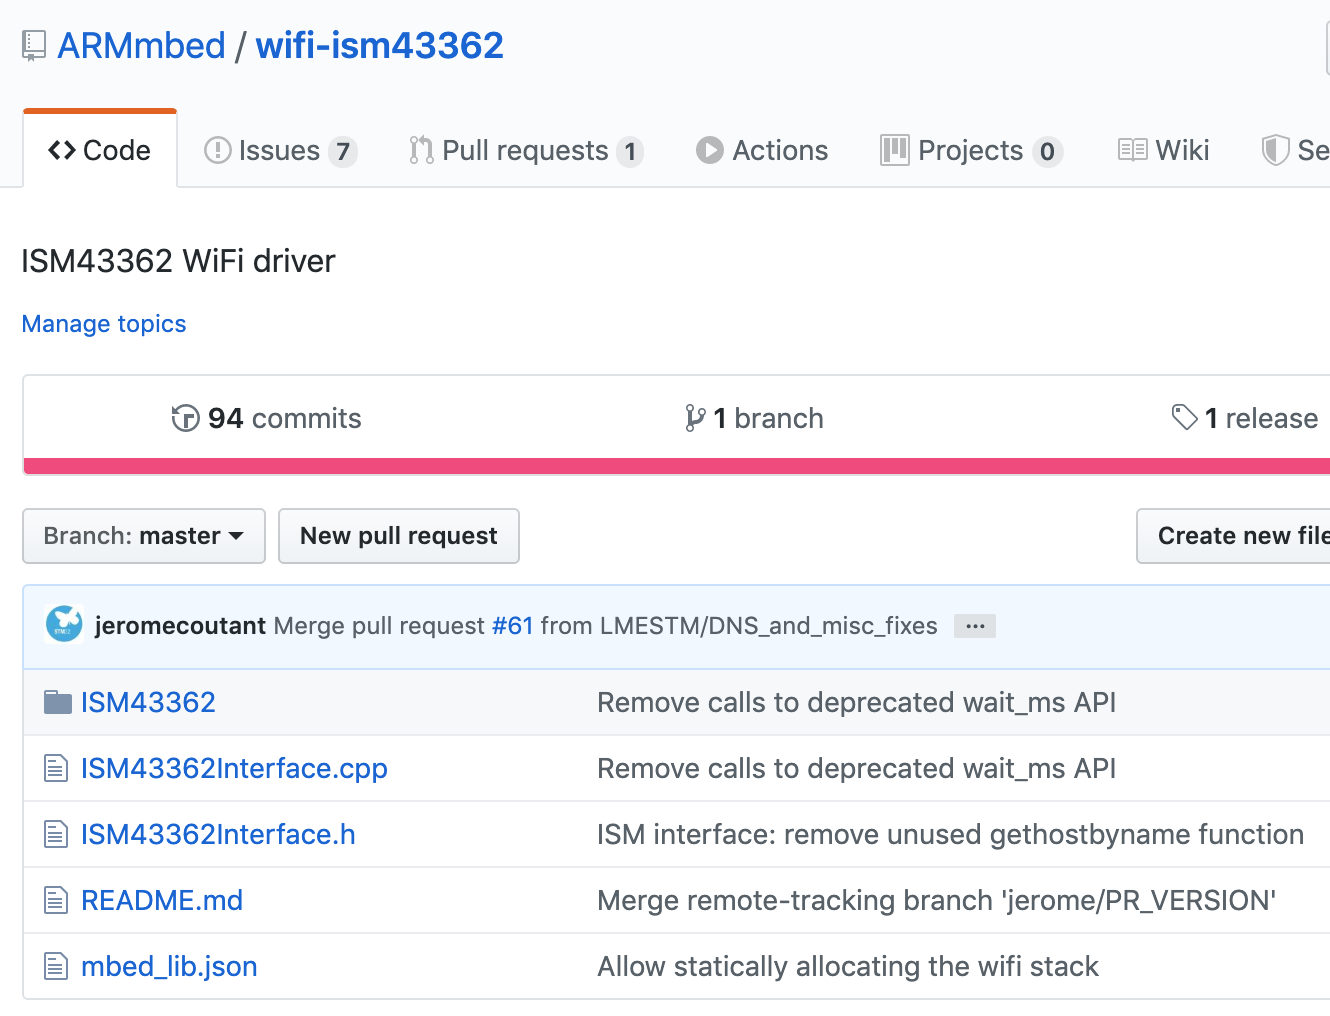
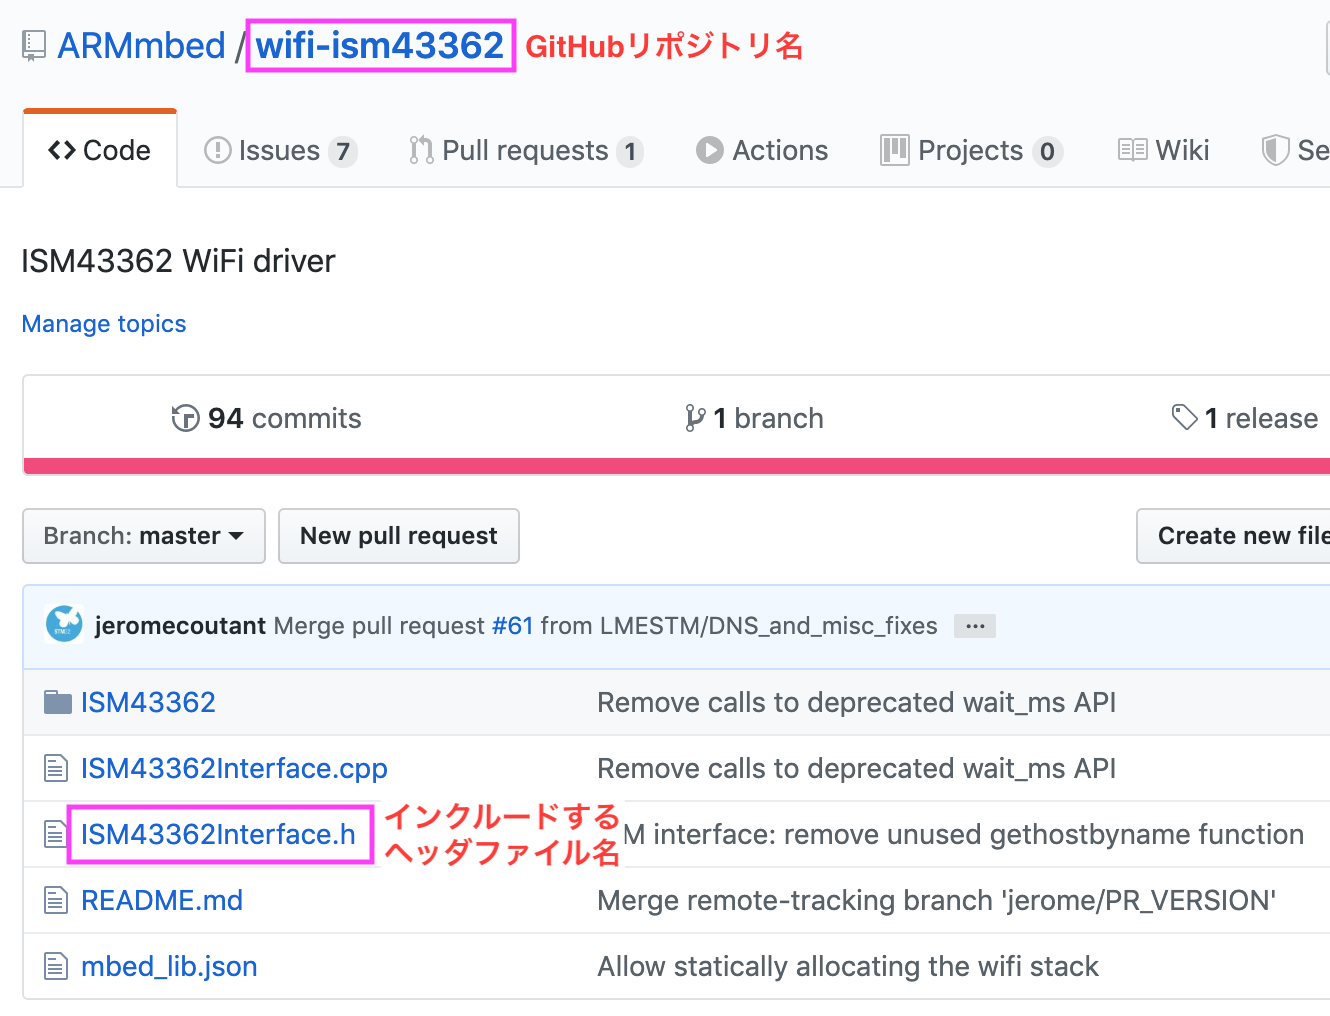
Add wifi driver repo

Changed region(s): [[0.0308, 0.7933, 0.4624, 0.8543], [0.185, 0.0, 0.6165, 0.0915]]

diff --git a/ws2.md b/ws2.md
@@ -63,6 +63,8 @@ https://github.com/ARMmbed/wifi-ism43362
 
 ## ドライバのリポジトリ名とヘッダファイルの検索
 
+![](./pict/wifi_repo.png)
+
 * GitHubリポジトリ名 : wifi-ism43362
 * ヘッダファイル名 : ISM43362Interface.h
 
